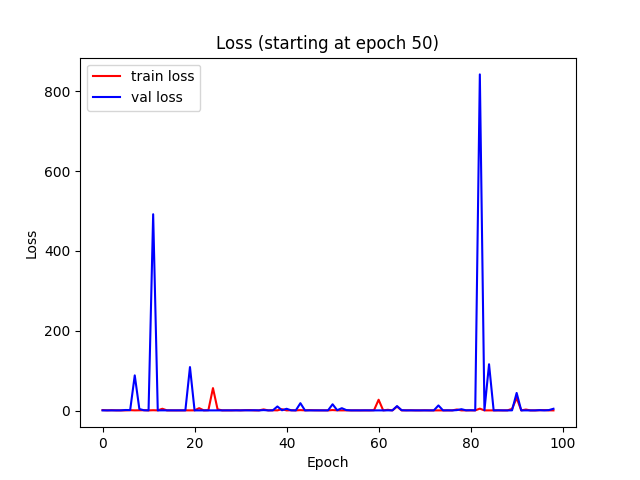
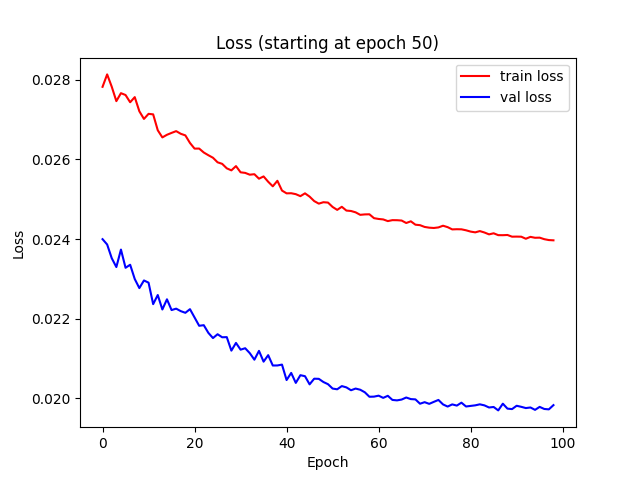
reduce epoch

diff --git a/api_parser.py b/api_parser.py
@@ -2,17 +2,42 @@ import googleapiclient.discovery
 import isodate
 import json
 
+keys = []
 with open("data/key.txt", 'r') as f:
-    key = f.readline()
-    key = key.strip()
+    for line in f:
+        key = line.strip()
+        keys.append(key)
 
-# Build the resource for the YouTube API
-youtube = googleapiclient.discovery.build("youtube", "v3", developerKey=key)
+print(keys)
 
 movie_data = {}
 
-with open("small_movies.json", "r") as videos:
+count = 1
+key = keys[0]
+youtube = googleapiclient.discovery.build("youtube", "v3", developerKey=key)
+print(key)
+# flag = True
+
+# while True:
+#     if count >= 40000:
+#         break
+#     if count % 10000 == 0:
+#         print(count)
+#         key = keys[int(count / 10000)]
+#         print(key)
+#     count += 1
+
+
+
+with open("data/tweeted_videos/tweeted_videos/education.json", "r", encoding="utf-8") as videos:
     for line in videos:
+        if count >= 40000:
+            break
+        if count % 10000 == 0:
+            print(count)
+            key = keys[int(count / 10000)]
+            youtube = googleapiclient.discovery.build("youtube", "v3", developerKey=key)
+            print(key)
         v = json.loads(line)
         vid = v["id"]
         if v["insights"].get("totalShare") == None or v["insights"].get("dailyShare") == None or v["insights"].get("avgWatch") == None or (isodate.parse_duration(v["contentDetails"]["duration"]).total_seconds()) == 0:
@@ -38,11 +63,13 @@ with open("small_movies.json", "r") as videos:
                 part="snippet",
                 relatedToVideoId=vid,
                 type="video",
-                maxResults=10
+                maxResults=20
             )
             response = request.execute()
-            print("good")
-        except:
+            count += 1
+            # print("good")
+        except Exception as e:
+            print(e)
             print("bad:", vid)
             continue
 
@@ -50,7 +77,7 @@ with open("small_movies.json", "r") as videos:
         target_neighbors = []
         for item in response["items"]:
             target_neighbors.append(item["id"]["videoId"])
-            
+
         movie_data[vid] = { "neighbors": target_neighbors, "aver_daily_share": average_daily_share,
                             "duration": duration, "total_view": total_view, "total_watch_time": total_watch_time,
                             "aver_watch_time": aver_watch_time, "aver_watch_percentage": aver_watch_percentage,
@@ -58,5 +85,5 @@ with open("small_movies.json", "r") as videos:
                             "source_neighbors":  [],
                             "target_neighbors":  target_neighbors}
 
-with open("data/movie_data.json", "w", encoding="utf-8") as f:
+with open("data/education_data.json", "w", encoding="utf-8") as f:
     json.dump(movie_data, f)

diff --git a/gnn.py b/gnn.py
@@ -588,12 +588,12 @@ def smape(y_pred, y_test):
         acc += abs((a + b) / ((c + d) / 2))
     return acc / n
 
-for epoch in range(150):
+for epoch in range(100):
     optimizer.zero_grad()
     # print(x_train.shape, edge_train.shape)
     out = model(x_train, edge_train)
     loss = loss_fn(out, y_train)
-    if epoch > 50:
+    if epoch > 10:
         train_loss.append(loss.cpu().data.numpy())
     # loss = F.nll_loss(out.view(-1, out.shape[0]).flatten(), y_train.view(-1, y_train.shape[0]).flatten())
     loss.backward()
@@ -630,7 +630,8 @@ plt.xlabel('Epoch')
 plt.ylabel('Loss')
 plt.legend()
 plt.title('Loss (starting at epoch 50)')
-plt.savefig("gnn_loss_plt.png")
+num = 1
+plt.savefig(f"gnn_loss_plt_{num}.png")
 
 pred_test = model(x_test, edge_test)
 if device == 'cuda':
